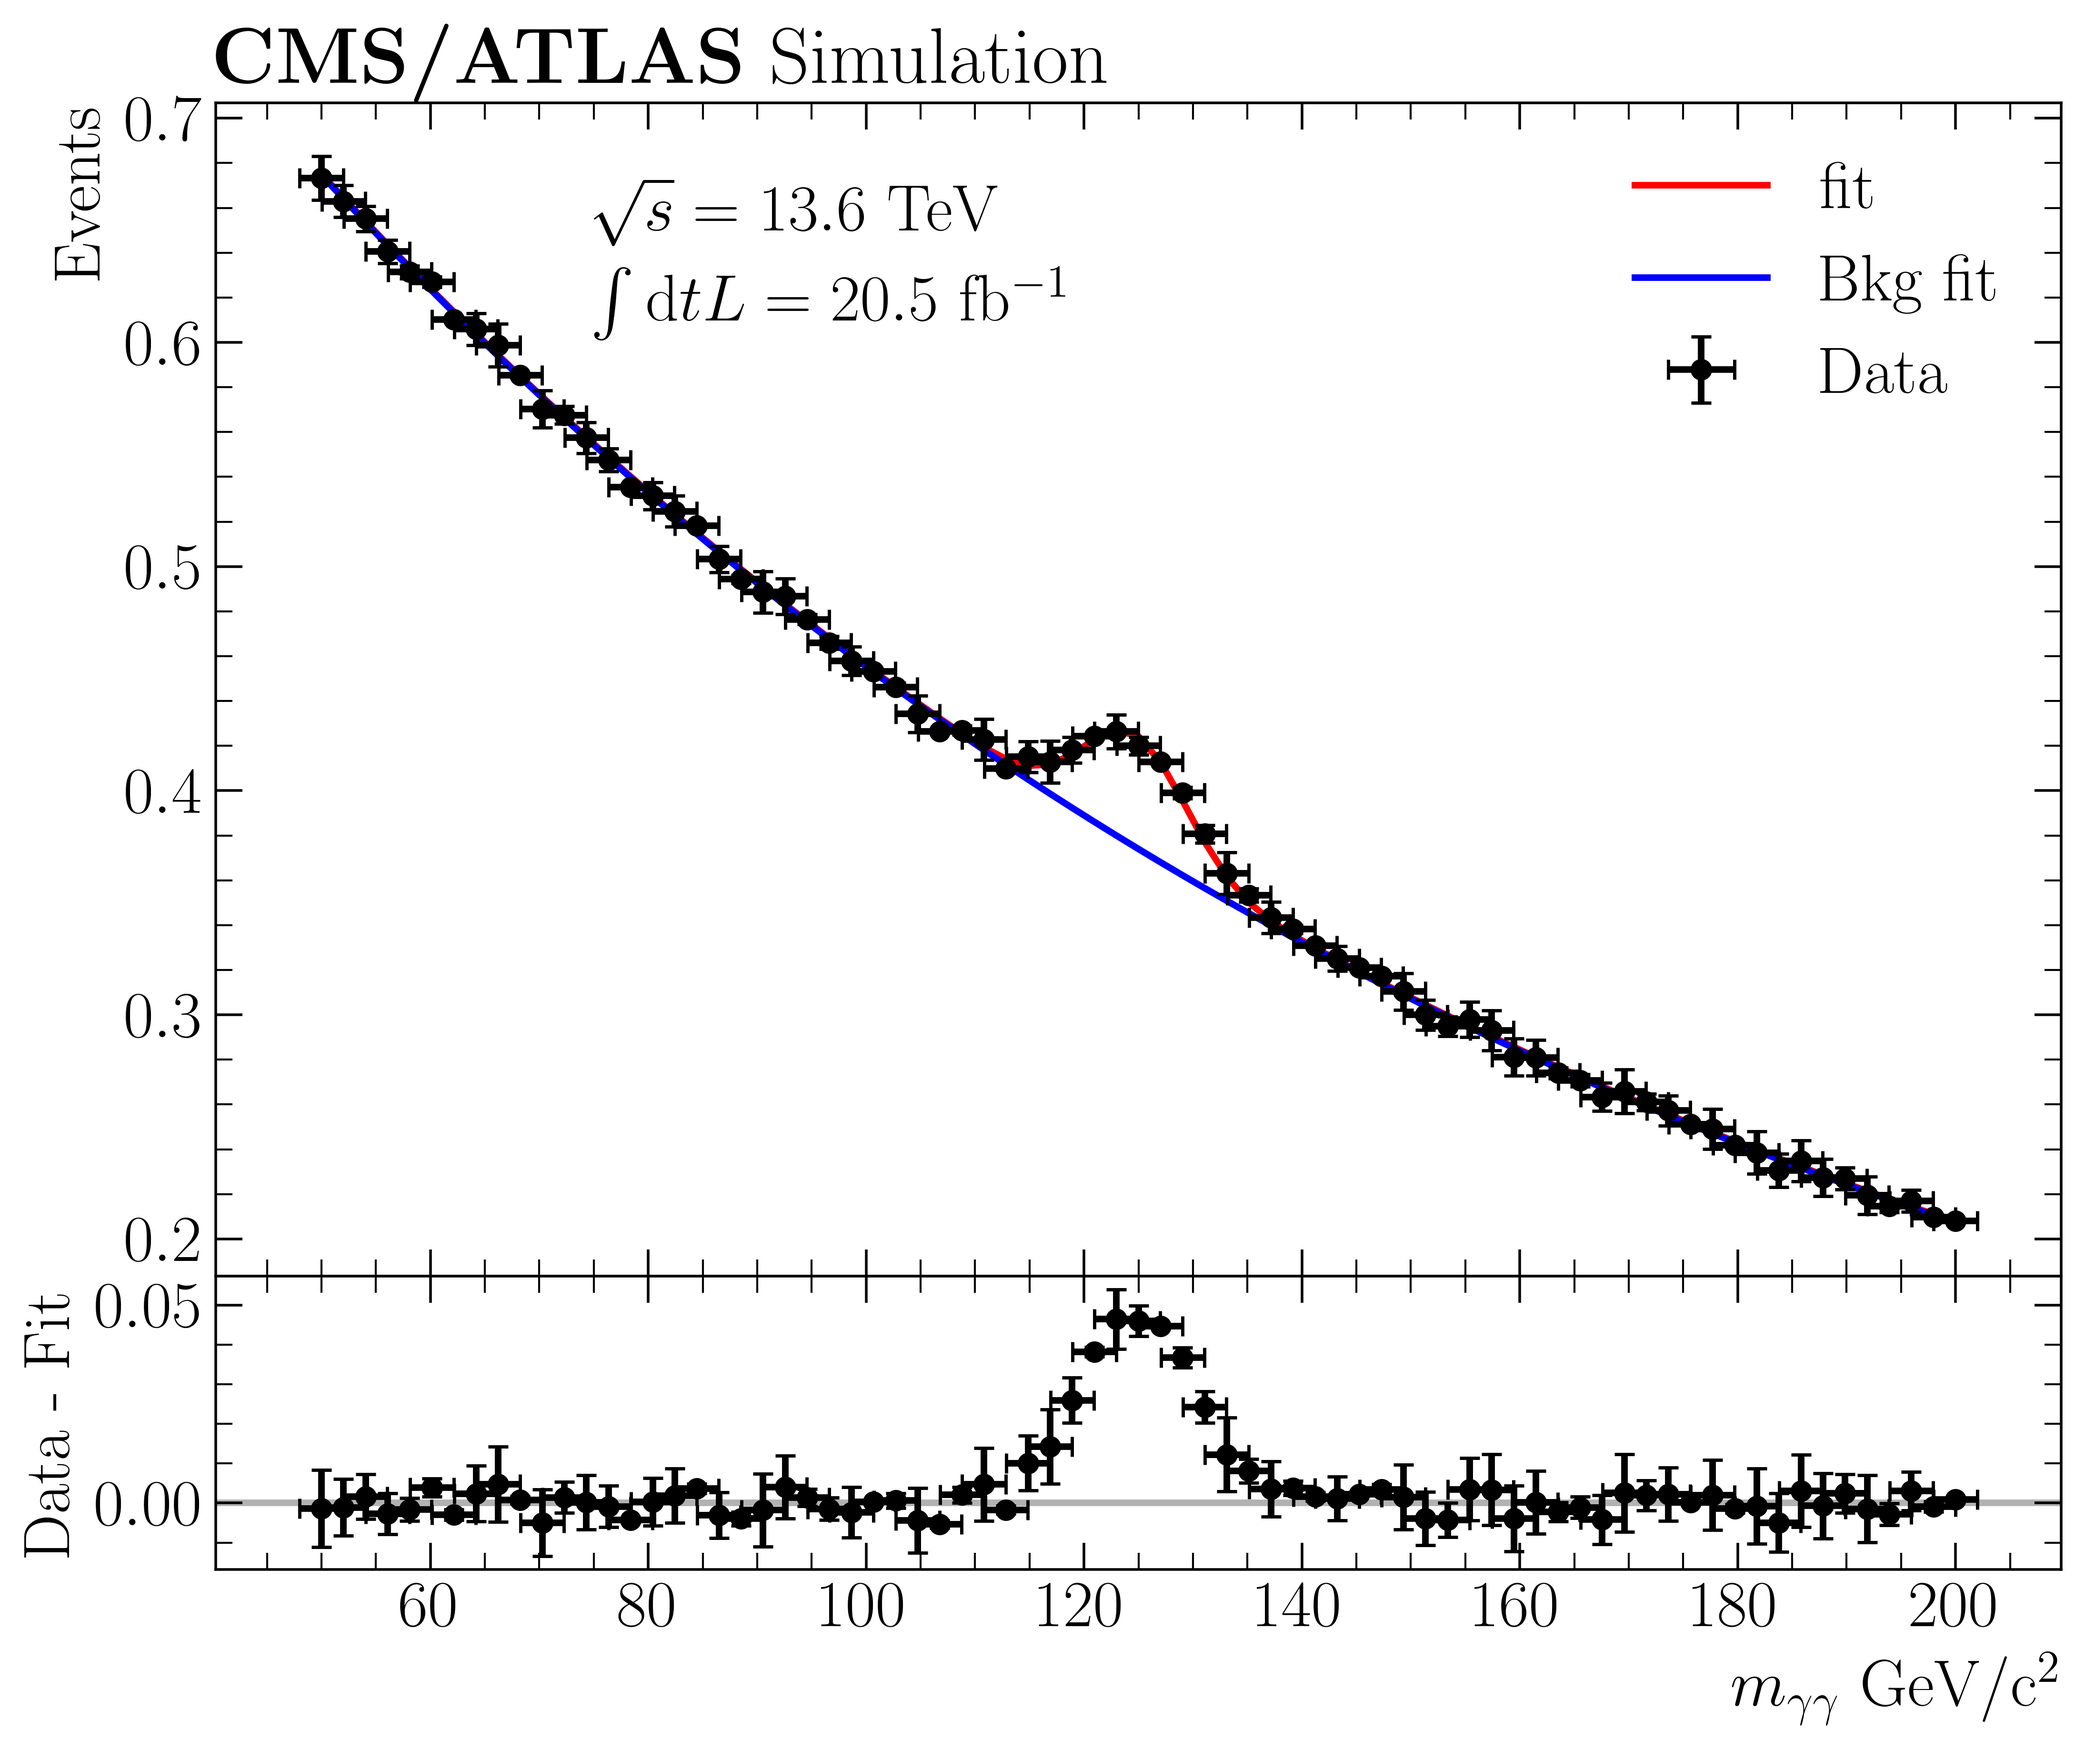
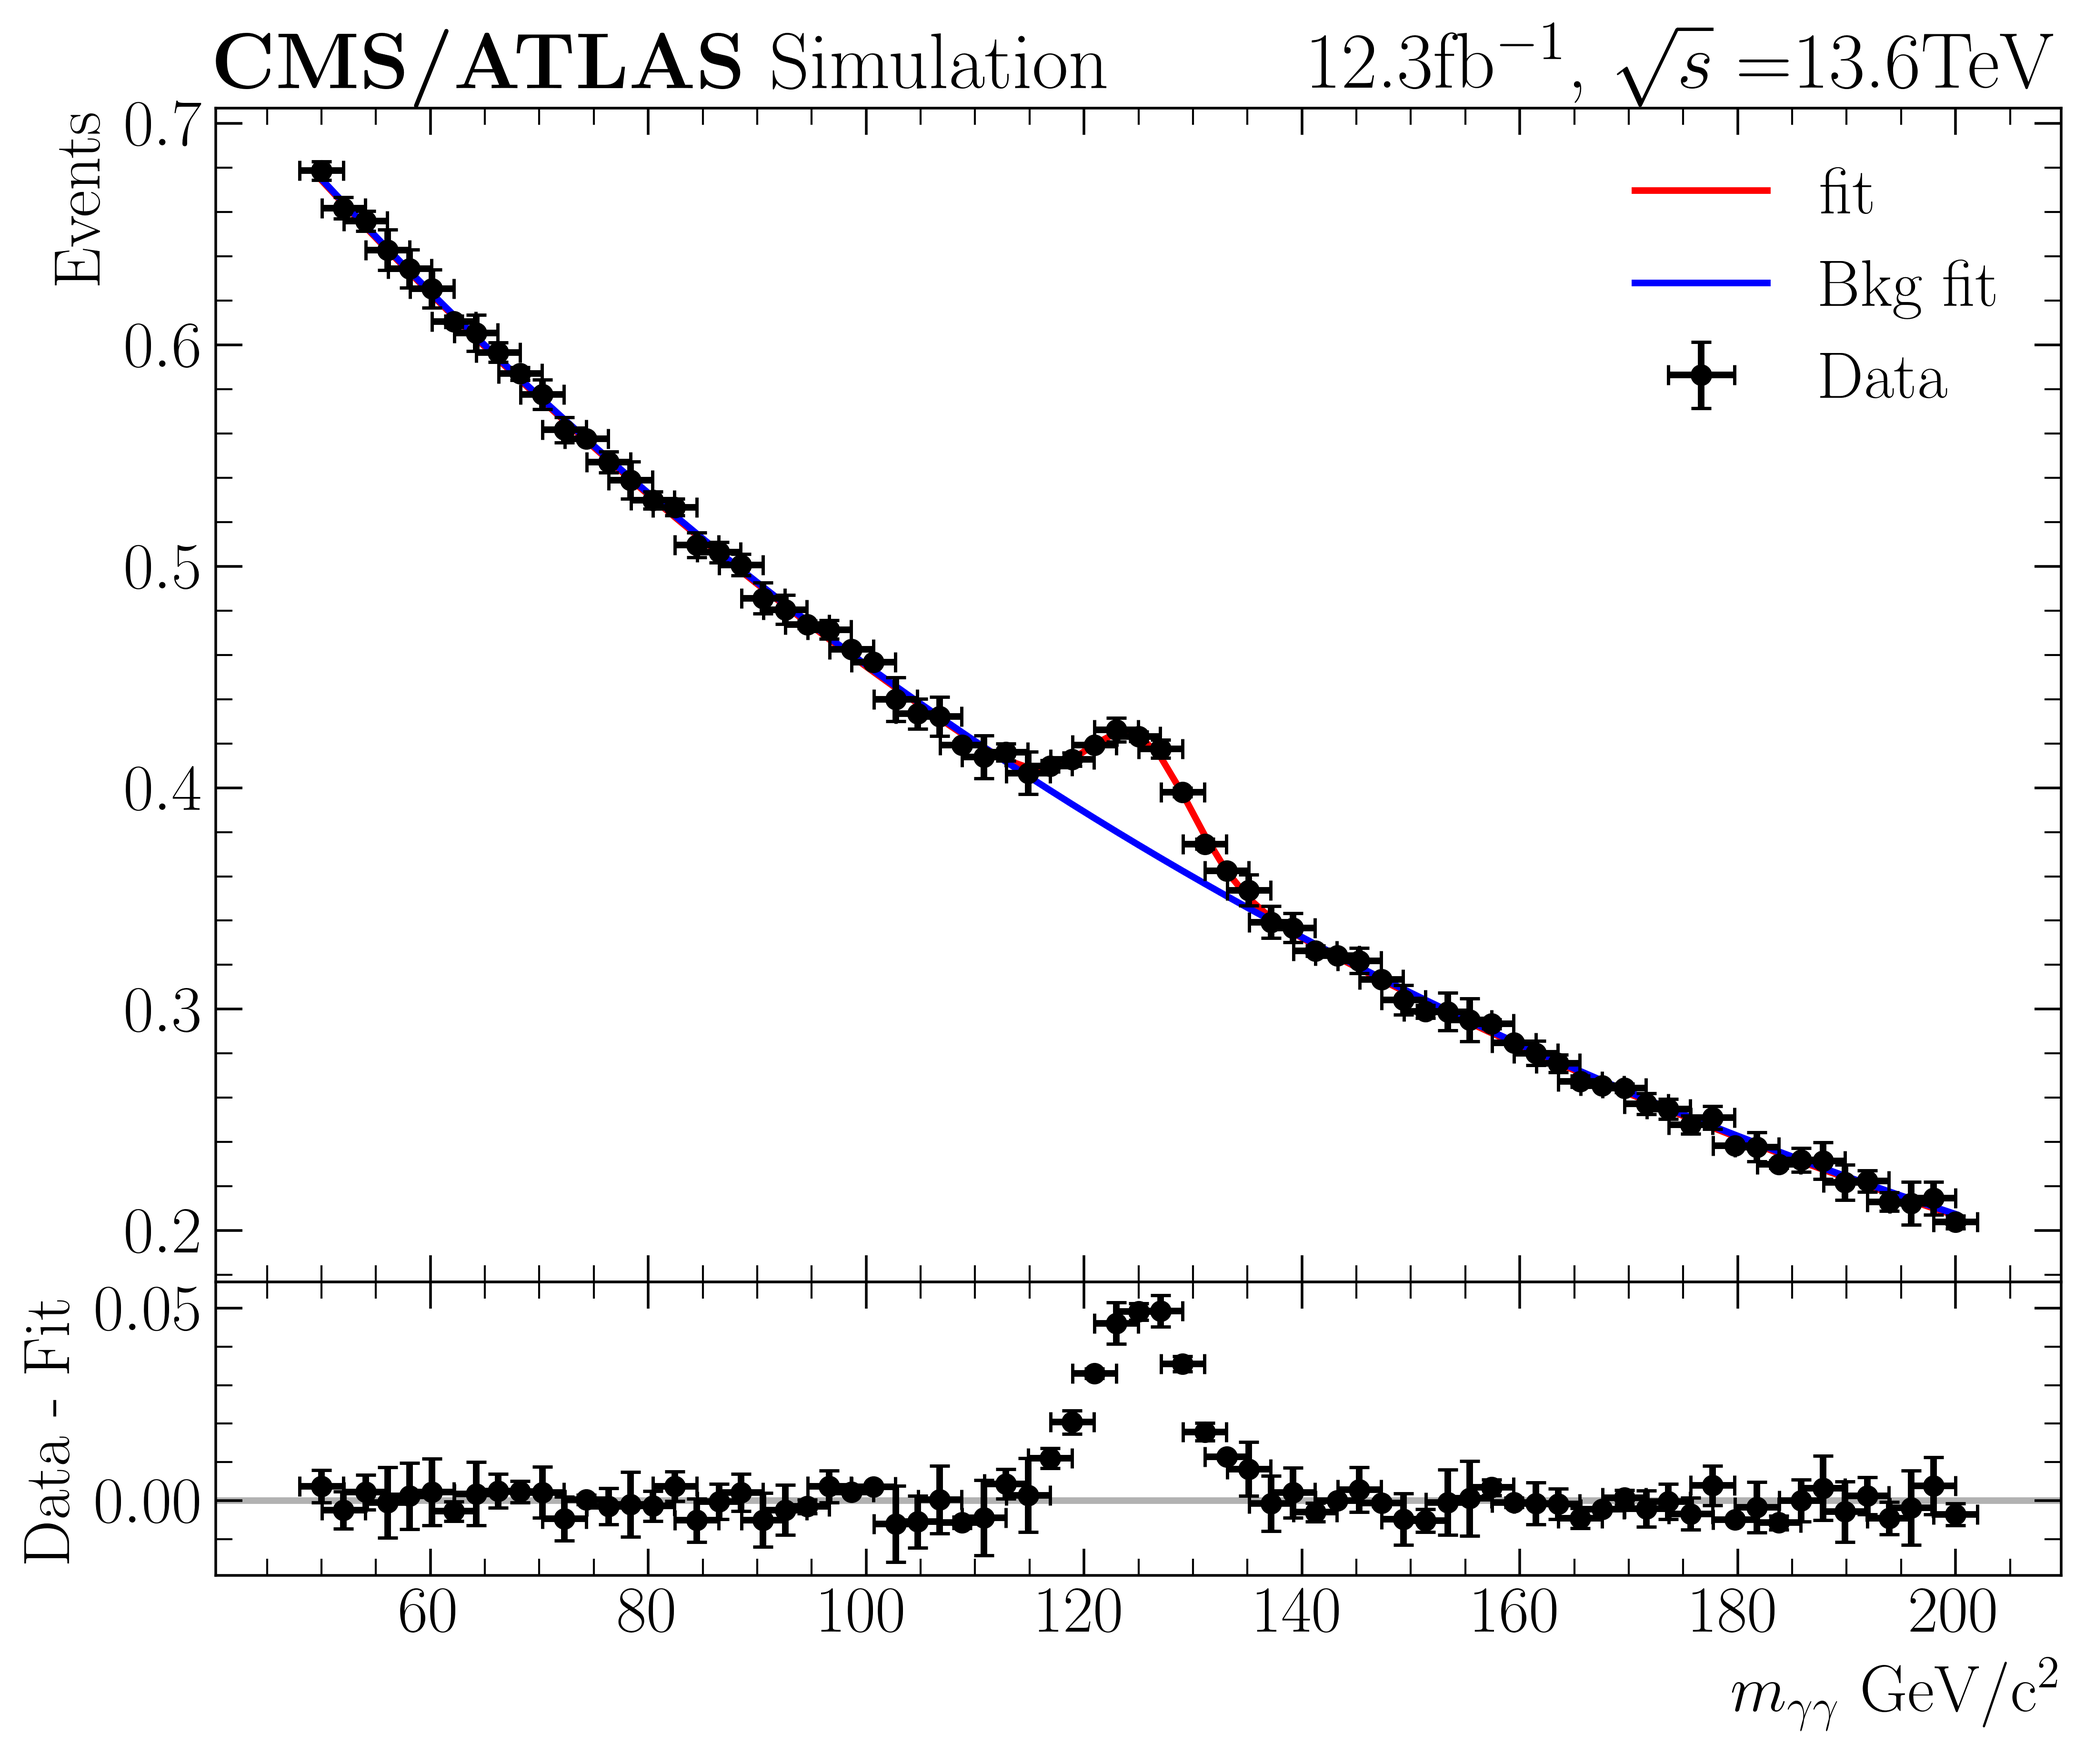
Update main plot.

diff --git a/Example/example.py b/Example/example.py
@@ -5,7 +5,7 @@ from scipy.optimize import curve_fit
 
 import matplotlib_cern
 matplotlib_cern.set_template()
-# matplotlib_cern.set_plotstyle(plotstyle="regular")
+fig, ax1, ax2 = matplotlib_cern.set_plotstyle(text = "CMS", subtext = "Simultion", lum = "12.3", com = "13.6", plotstyle="residuals")
 # Generate Data
 def signal(x):
         A, alpha, mean, sigma = 0.05, 0.008, 125, 50
@@ -26,8 +26,7 @@ yError = 0.01 * np.random.random(len(x))
 bkg = backgroundSignal(x) + 0.01 * np.random.random(len(x))
 bkgError = 0.01 * np.random.random(len(x))
 
-# Plot Data
-fig, (ax1, ax2) = plt.subplots(2, 1, sharex=True, figsize=(10, 8), gridspec_kw={'height_ratios': [4, 1]})
+
 popt, pcov = curve_fit(fitFunction, x, y, sigma = yError, p0 = (0.05, 0.008, 125, 50))
 ax1.plot(x, fitFunction(x, *popt), color = "red", label = "fit")
 popt2, pcov2 = curve_fit(fitFunctionBackground, x, bkg, sigma = bkgError, p0 = (0.008))
@@ -36,8 +35,8 @@ ax1.errorbar(x, y, xerr = binWidth, yerr = yError, marker = "o", ls = "", color 
 ax2.set_xlabel(r"$m_{\gamma\gamma}$ GeV/c$ ^2$")
 ax1.set_ylabel(r"Events")
 ax1.legend()
-ax1.text(75, 0.65, r"$\sqrt{s} = 13.6$ TeV")
-ax1.text(75, 0.61, r"$\int \text{d}t L = 20.5$ fb$^{-1}$")
+# ax1.text(75, 0.65, r"$\sqrt{s} = 13.6$ TeV")
+# ax1.text(75, 0.61, r"$\int \text{d}t L = 20.5$ fb$^{-1}$")
 ax1.set_title(r"\textbf{CMS/ATLAS} Simulation")
 
 ax2.set_ylabel(r"Data - Fit", loc = "center")
